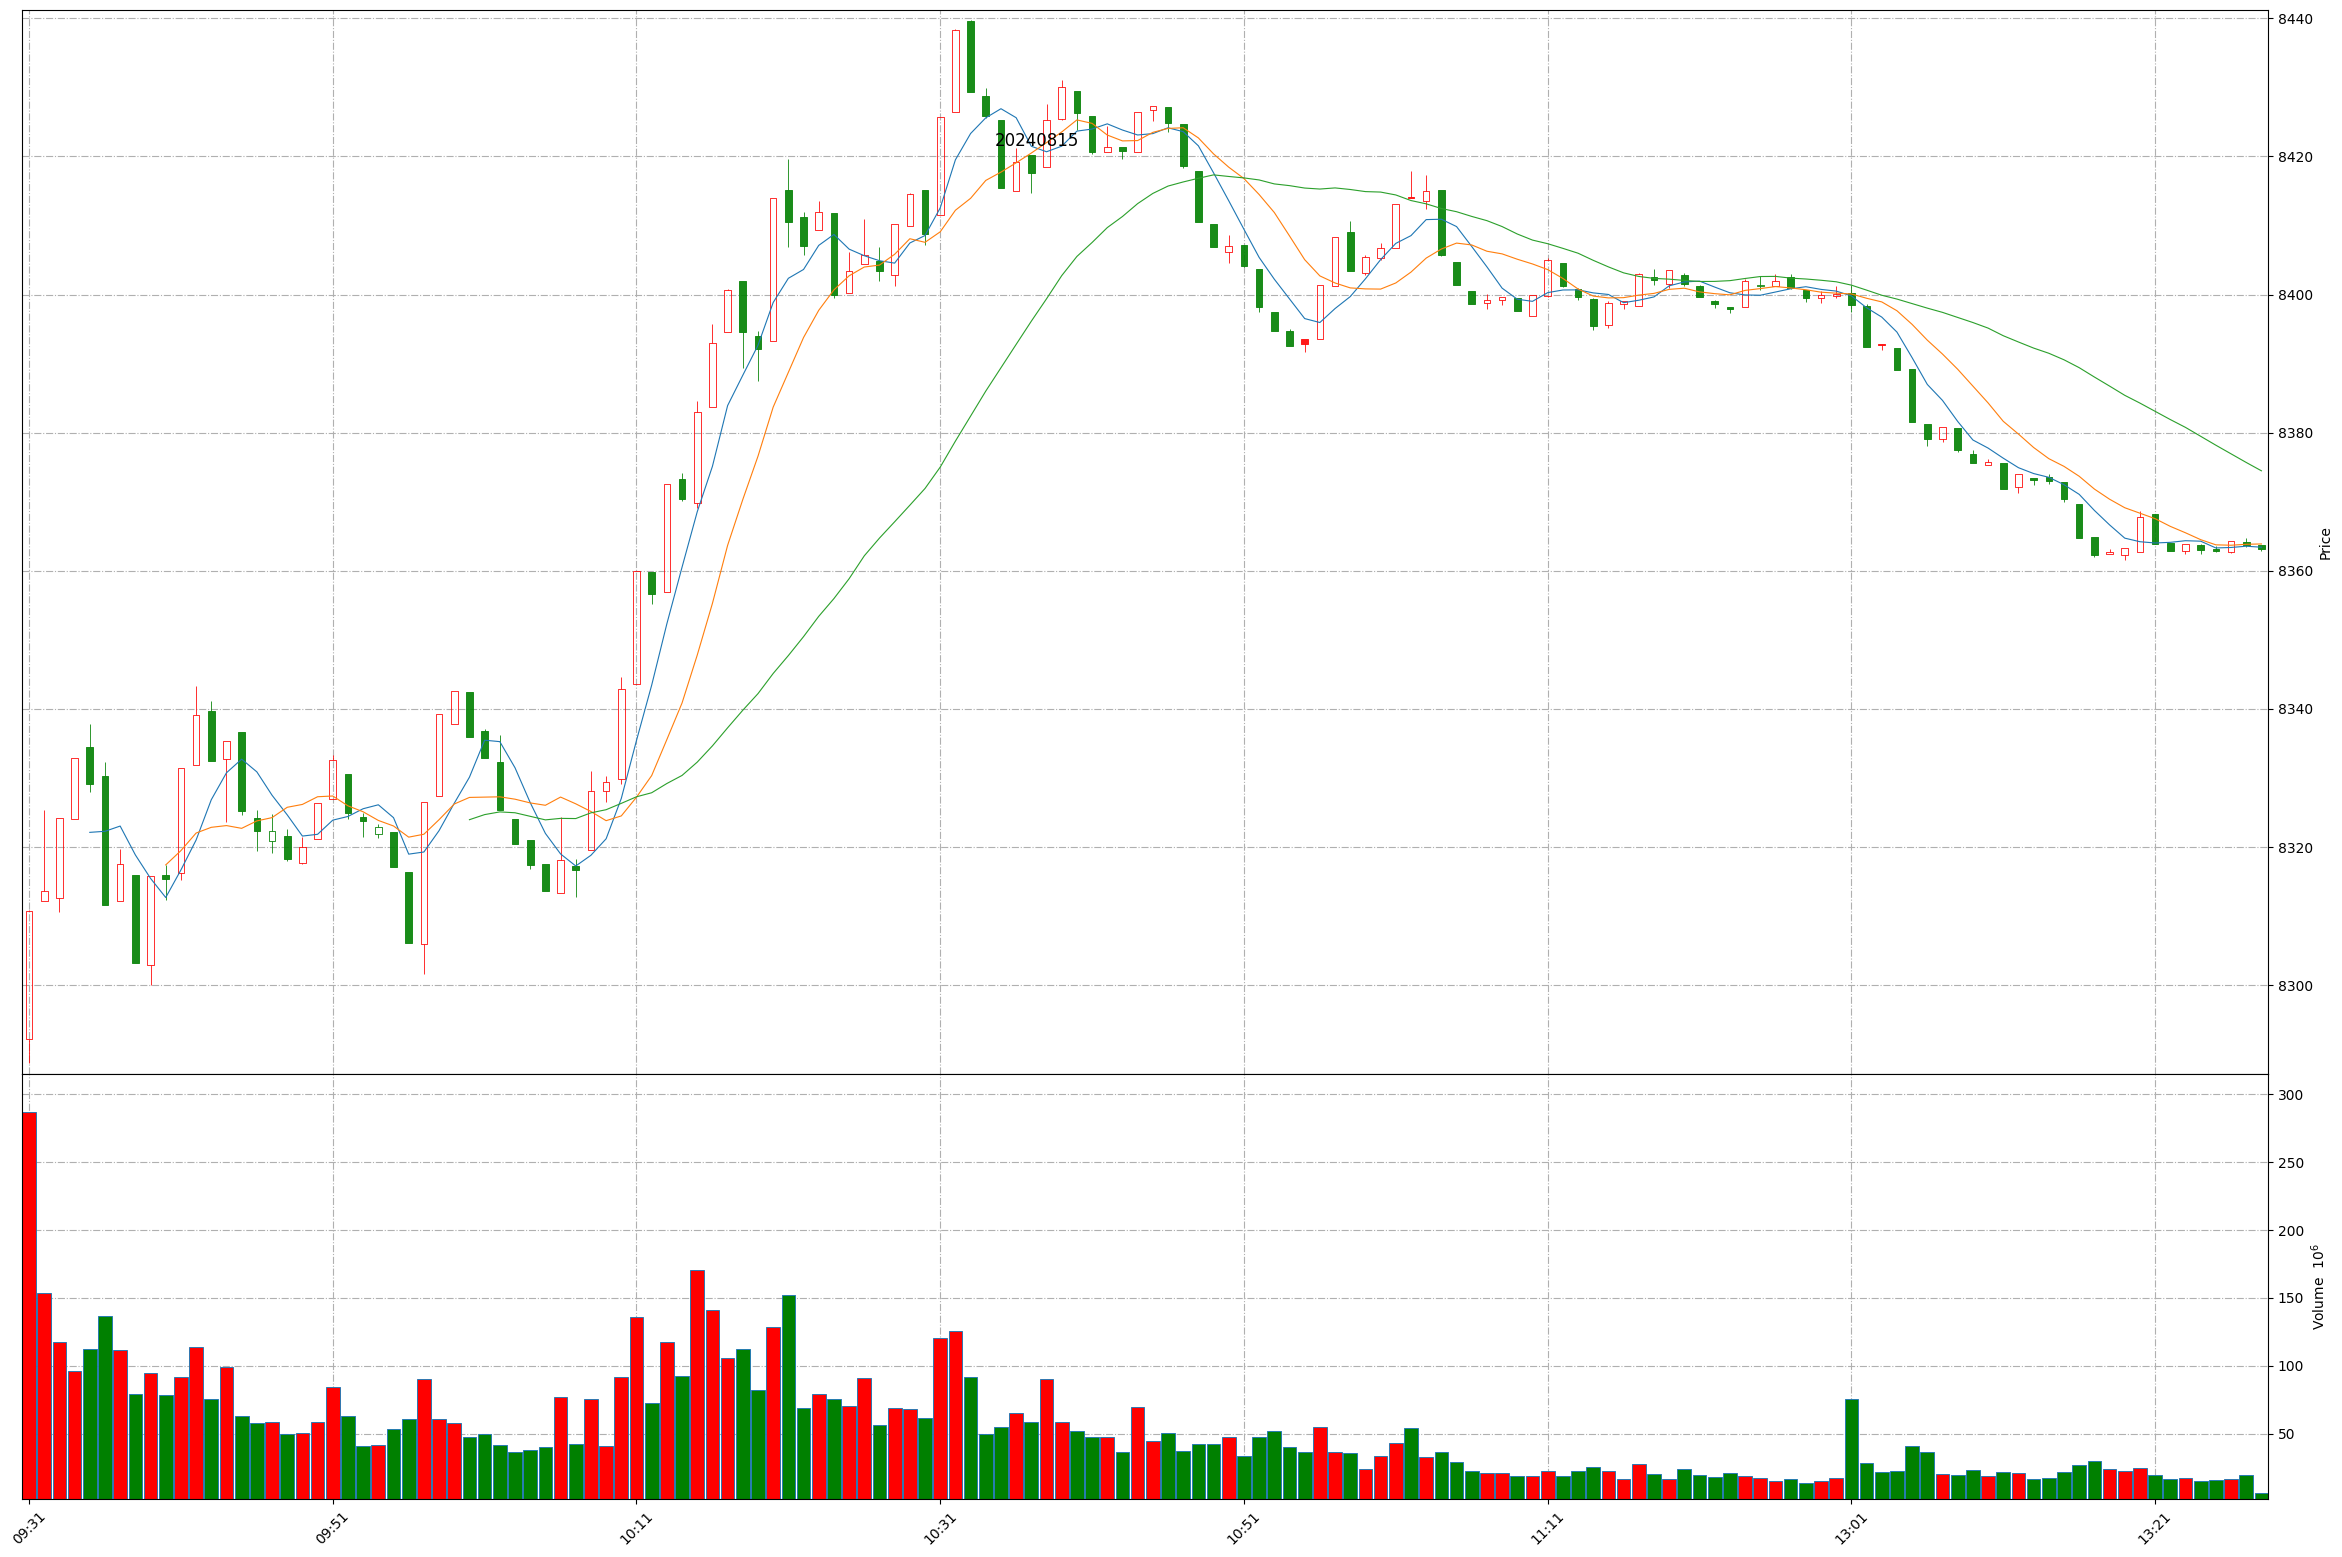
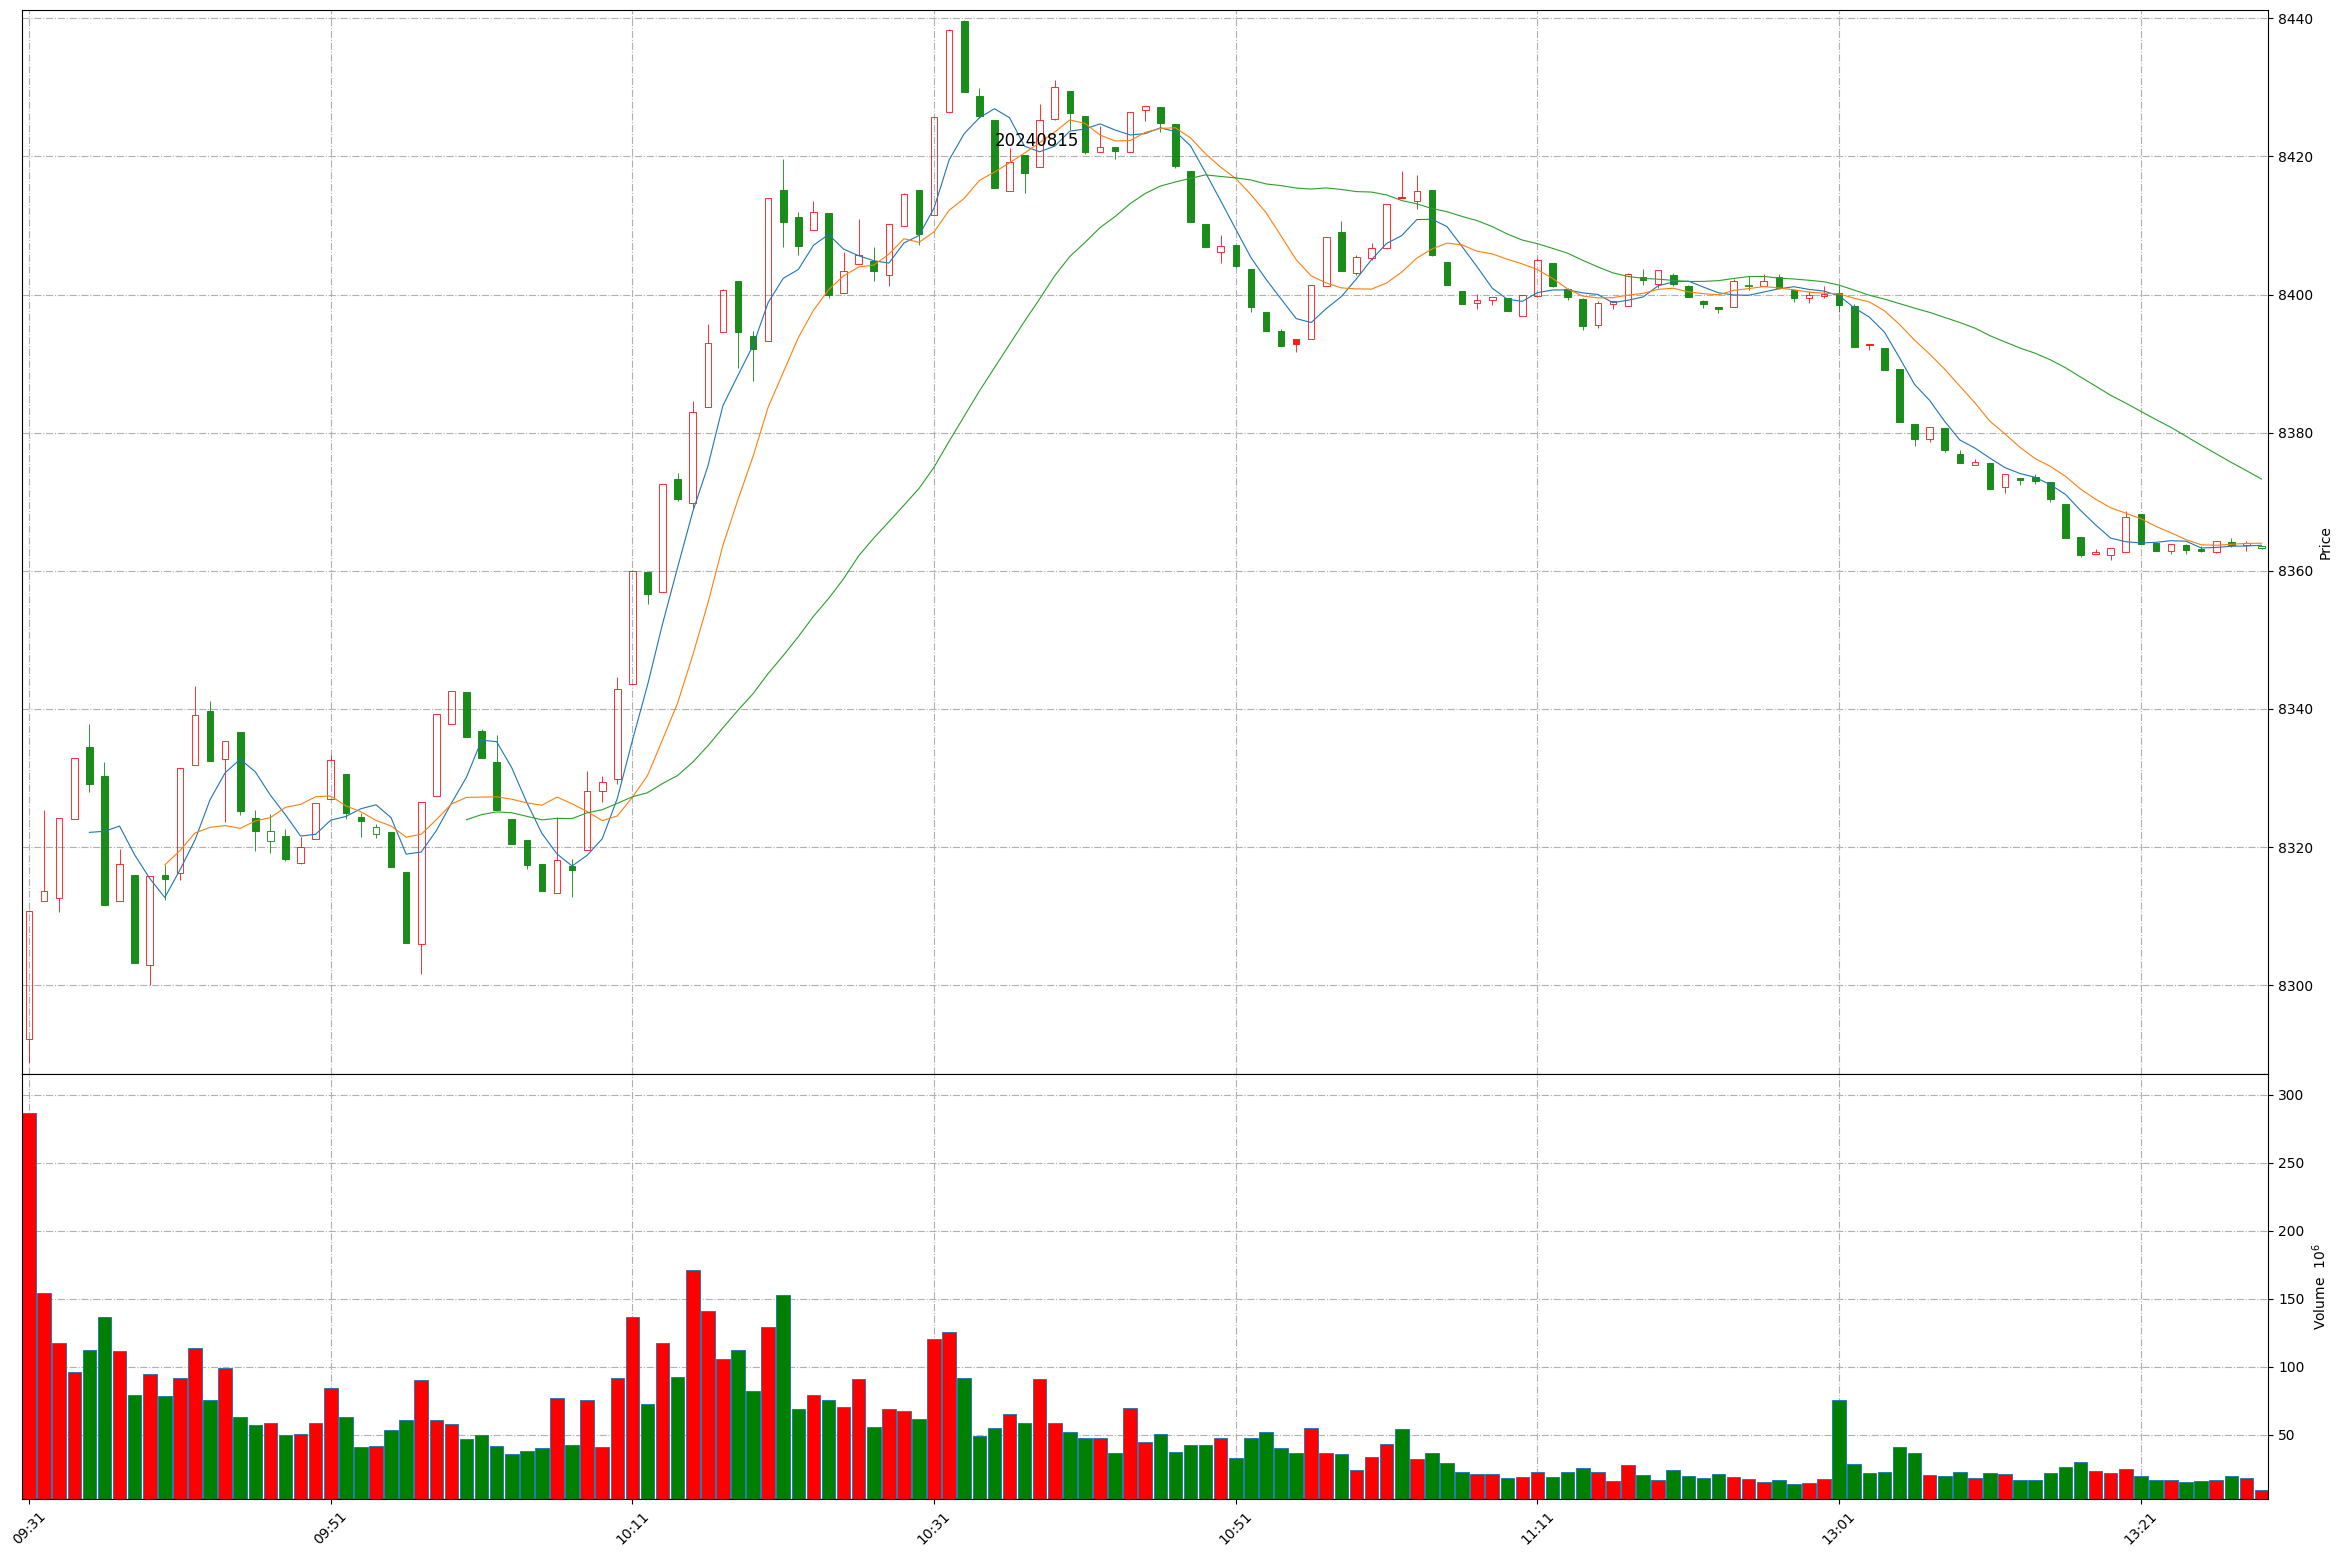
Github action update at 2024-08-15 13:28:40.

diff --git a/README.md b/README.md
@@ -1,11 +1,11 @@
 
 # Daily-A-share-market-quotes 每日 A 股指数（5min 更新）- 20240815
 
-### 上证指数 20240815 13:27
+### 上证指数 20240815 13:28
 ![](./fig/2024/8/20240815-sh000001.png)
 
-### 深证成指 20240815 13:27
+### 深证成指 20240815 13:28
 ![](./fig/2024/8/20240815-sz399001.png)
 
-### 北证50 20240815 13:27
+### 北证50 20240815 13:28
 ![](./fig/2024/8/20240815-bj899050.png)
